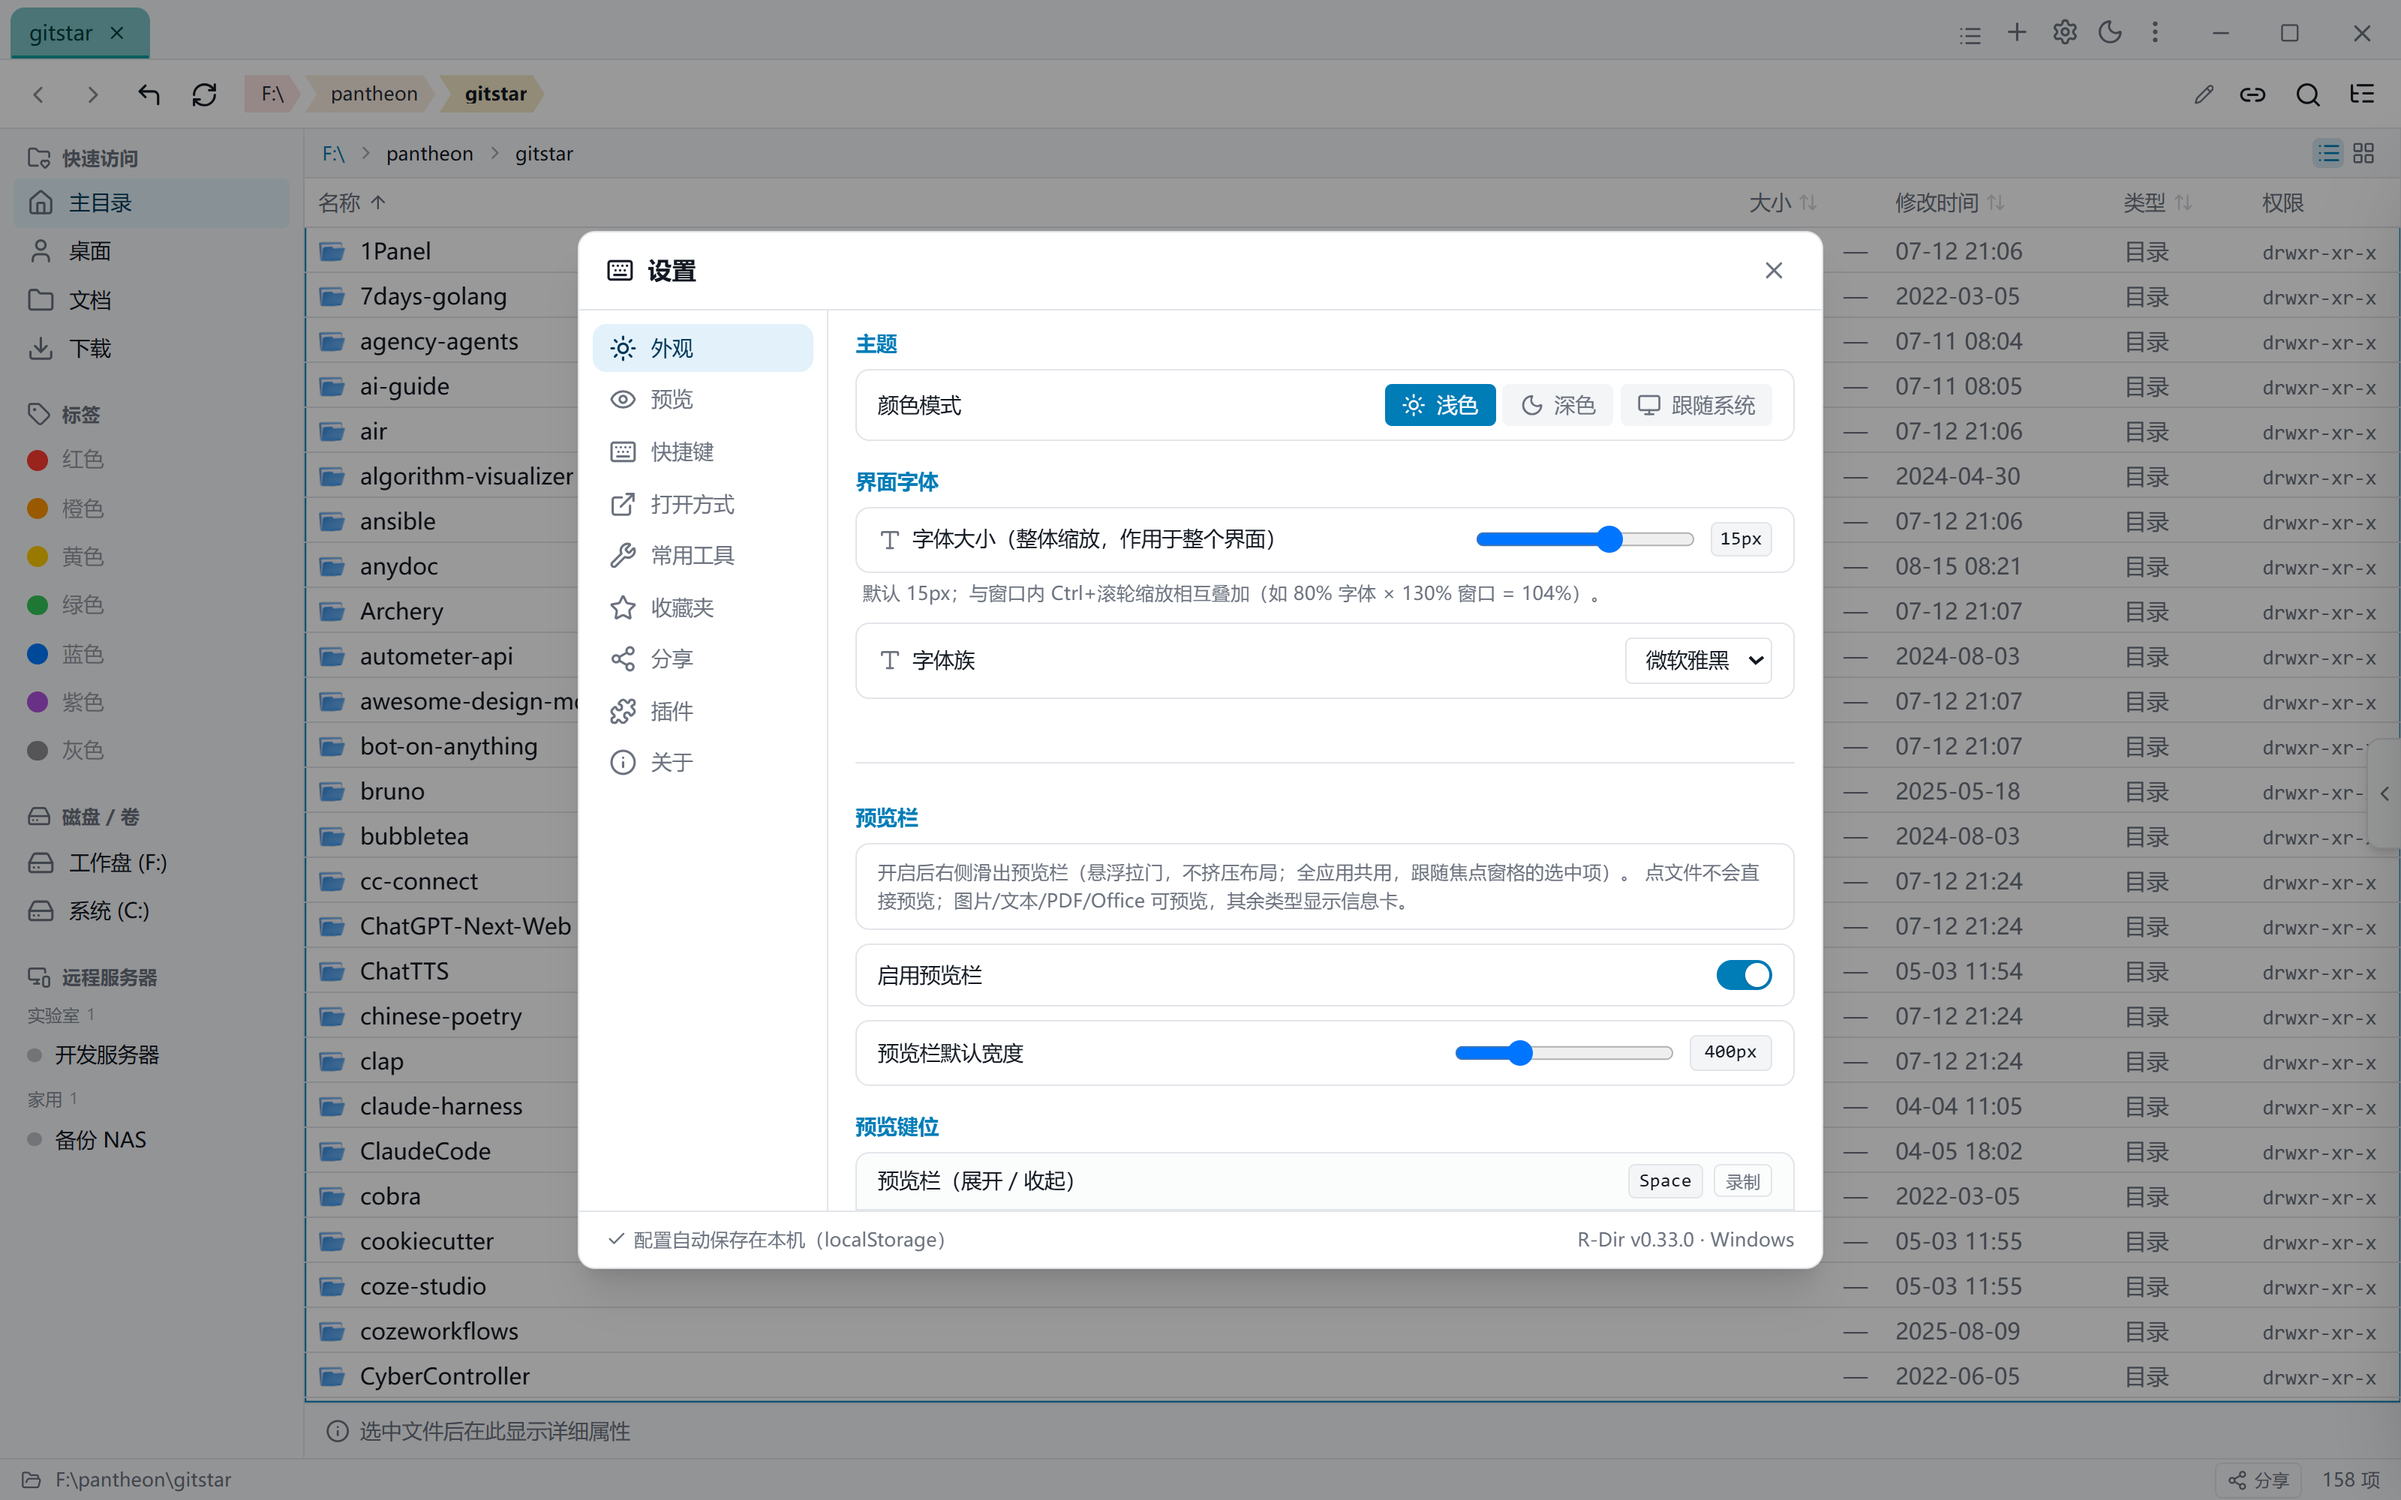
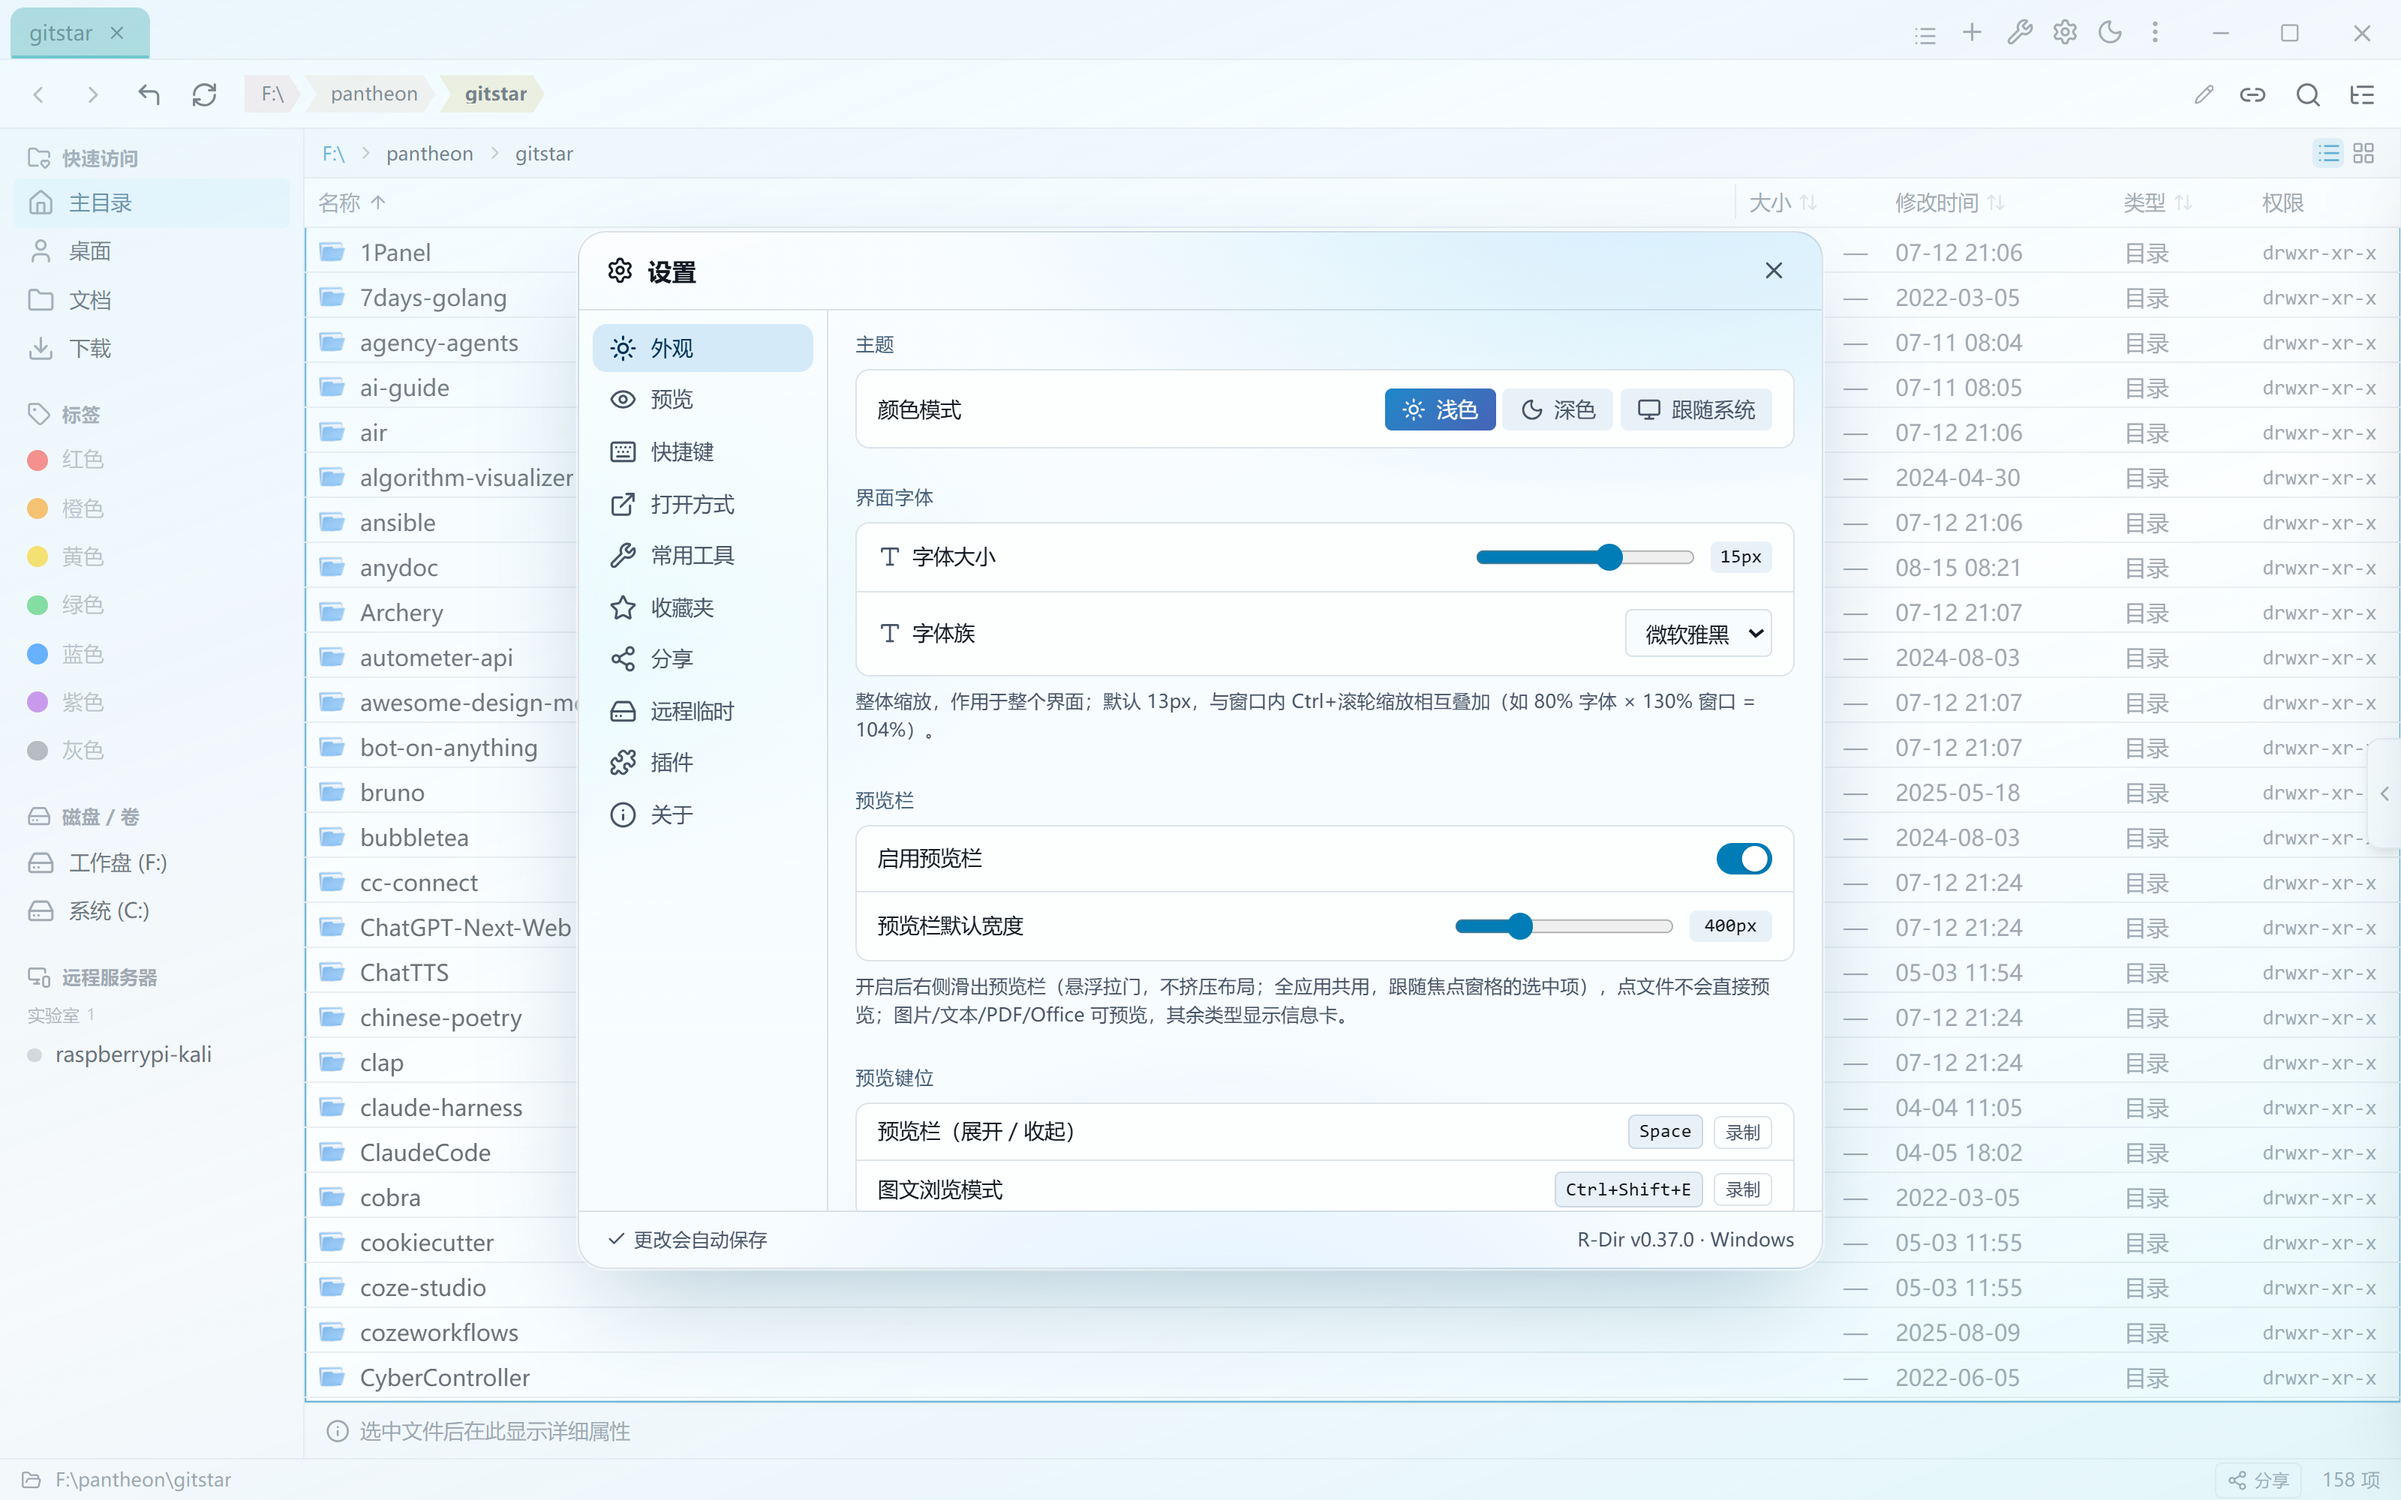
feat: v0.34-v0.37 更新速览章节——双主题设置皮肤/搜索灯芯/覆盖MD5指纹/远程临时/会话保存(47 张截图,15/16 重摄)

diff --git a/site/shots.md b/site/shots.md
@@ -202,3 +202,25 @@ QuickJump 快速定位——列表聚焦时键入即搜，fzf 式子序列匹配
 ![文本比较窗口：本地 ↔ 远程 README.md，精确到 +1 −1 行差异，318 行相同自动折叠](/shots/41-text-diff-local-remote.png)
 
 文本比较——行级 diff 左右对照：红 = 左侧删除、绿 = 右侧新增，相同段自动折叠，支持编码切换与「只看差异」。
+
+## v0.34–v0.37 更新速览
+
+![深色主题下的设置面板：黑金纹琉璃皮肤，金色分段 / 滑杆 / 开关](/shots/43-settings-dark-skin.png)
+
+**双主题皮肤（v0.36）**——深色「黑金纹琉璃」：玄黑实色底 + 金色主色（分段选中 / 滑杆 / 开关自动镀金）+ 金发丝边与低透明金纹流线；浅色为「云舒云卷」磨砂玻璃。
+
+![搜索面板灯芯按钮行：蓝=递归（点亮）、隐藏、Aa、正则，下方实时组合摘要](/shots/44-search-lamp-buttons.png)
+
+**搜索灯芯按钮（v0.34）**——蓝 / 绿 = 范围（递归 / 隐藏），琥珀 / 紫 = 匹配方式（大小写 / 正则·通配），点亮即生效，按钮下方实时显示组合摘要。
+
+![覆盖确认弹窗：源 / 目标均展示大小与 MD5，一致时绿字提示](/shots/45-conflict-fingerprints.png)
+
+**覆盖确认指纹（v0.37）**——同名冲突展示源 / 目标的大小与 MD5，一致时绿字提示「两个文件内容相同」；单文件逐条查询，批量裁决不重复查询。
+
+![设置 → 远程临时：目录可更改、占用统计、一键清理](/shots/46-settings-remote-temp.png)
+
+**远程临时目录（v0.37）**——远程文件「打开 / 打开方式」先下载到此处再交给应用：目录可配置 / 恢复默认、实时占用统计、一键清理。
+
+![Ctrl+S 主动保存会话：中央轻提示「会话已保存」](/shots/47-save-session-tip.png)
+
+**会话主动保存（v0.34）**——⌨ `Ctrl+S` 立即保存全部标签页 / 分屏树 / 各窗格路径；另有崩溃恢复自动保存（15 秒签名比对），意外中断后下次启动恢复现场。
